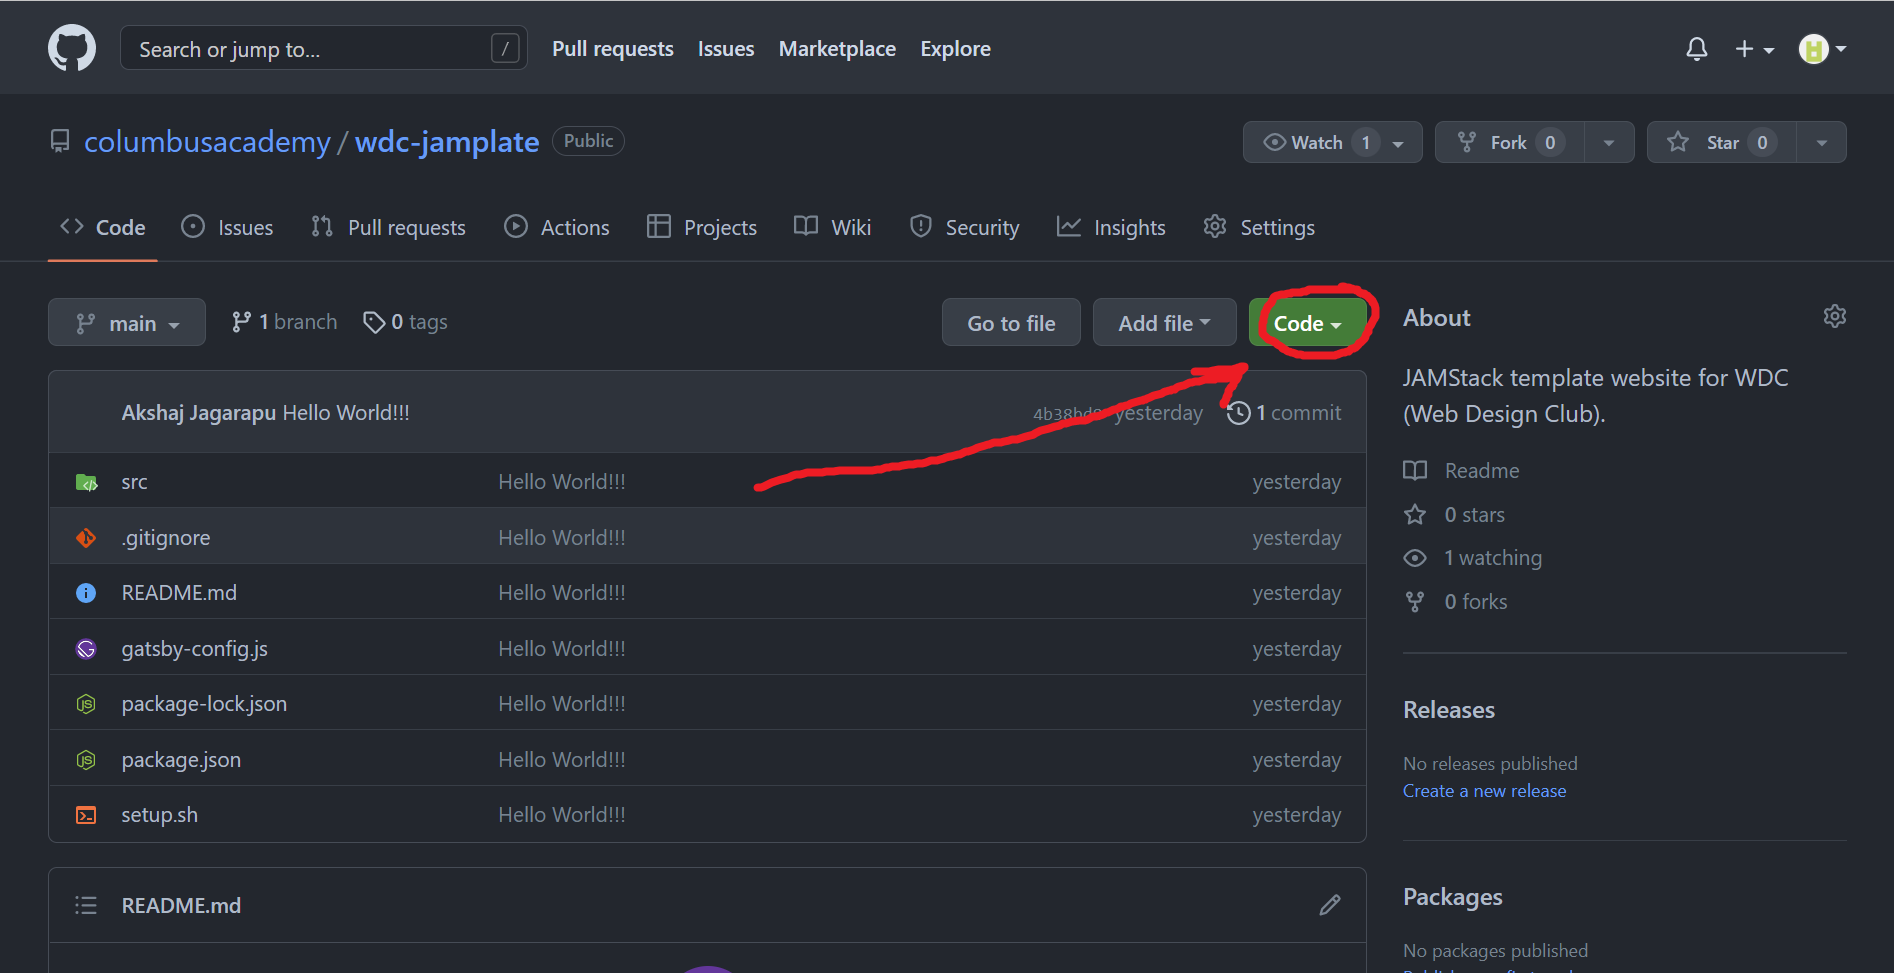
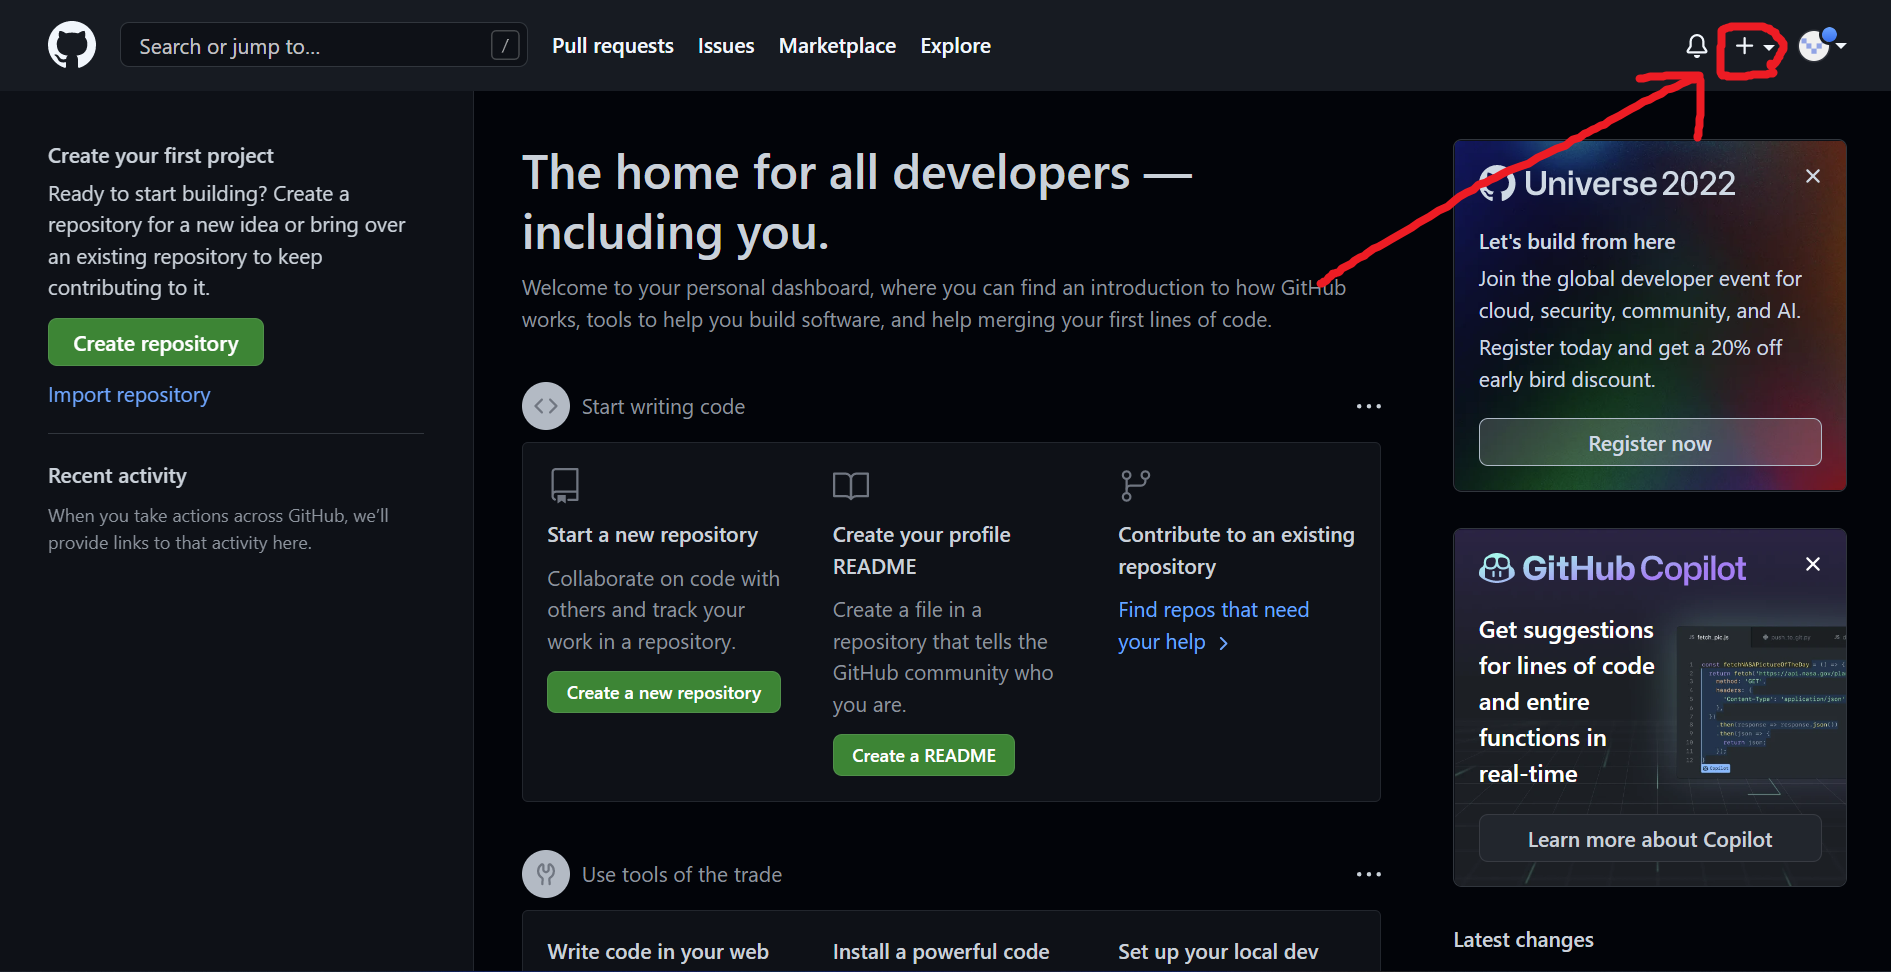
Started condensing README.md instructions.

diff --git a/README.md b/README.md
@@ -13,86 +13,88 @@
 
 <hr />
 
-## Table of Contents
+## 🗺 Table of Contents
 
-- ### [Quick start](#🚀-quick-start)
+1. ### [Quick start](#🚀-quick-start)
 
-  1. [**Set up your computer (first time only)**](#1-set-up-your-computer-first-time-only)
+   a. [**Set up your computer (first time only)**](#1-set-up-your-computer-first-time-only)
 
-     - [School laptop](#school-laptop)
-     - [Personal Computer](#personal-computer)
+   - [School laptop](#school-laptop)
+   - [Personal Computer](#personal-computer)
 
-  2. [**Start developing**](#2--start-developing)
+   b. [**Open the code**](#2--start-developing)
 
-  3. [**Open the code and start customizing**](#3-open-the-code-and-start-customizing)
+   c. [**Start customizing**](#3-open-the-code-and-start-customizing)
 
-  4. [**Learn more**](#4-learn-more)
+   d. [**Learn more**](#4-learn-more)
 
-- ### [To the Internet! (Gatsby Cloud)](#to-the-internet-gatsby-cloud)
+2. ### [To the Internet!](#to-the-internet-gatsby-cloud)
 
-  1. **Login to GitHub**
+   a. [**Login to GitHub**]()
 
-  2. **Initialize a repository**
+   b. [**Initialize a repository**]()
 
-  3. **Login to Gatsby Cloud**
+   c. [**Login to Gatsby Cloud**]()
 
-  4. **Launch your website**
+   d. [**Launch your website**]()
 
-- ### [Personal Computer Setup](#personal-computer-setup)
+3. ### [Personal Computer Setup](#personal-computer-setup)
 
-  - [**MacOS**](#macos)
+   - [**MacOS**](#macos)
 
-  - [**Windows**](#windows)
+   - [**Windows**](#windows)
 
-  - [**Linux**](#linux)
+   - [**Linux**](#linux)
 
-- ### [Remember: Ask questions!](#remember-ask-questions)
+4. ### [Remember: Ask questions!](#remember-ask-questions)
 
 <hr />
 
 ## 🚀 Quick start
 
-### 1. Set up your computer (first time only)
+### a. Set up your computer (first time only)
 
 - #### School Laptop
 
-  1. Go to https://github.com/columbusacademy/wdc-jamplate.
+  i. Log in to [GitHub](https://github.com/signup).
 
-  2. Press the green <code>Code</code> button.
+  ii. Press the <code>+</code> button on the top-right corner.
 
-  <img alt="GitHub Repo 1" src="mdimg/github-1.png" />
+  <img alt="GitHub 1" src="mdimg/github-1.png" />
 
-  3. Select <code>Download ZIP</code> and press <kbd>Enter</kbd>.
+  iii. Select <code>New repository</code>.
 
-  <img alt="GitHub Repo 2" src="mdimg/github-2.png" />
+  <img alt="GitHub 2" src="mdimg/github-2.png" />
 
-  4. Drag the downloaded file to your Desktop and double-click it.
+  iv. Click this textbox, type your project's name, and press <kbd>Enter</kbd>.
 
-  5. Open spotlight ( <kbd>⌘</kbd> + <kbd>Space</kbd> ), type <code>terminal</code>, and press <kbd>Enter</kbd>.
+  <img alt="GitHub Repo 1" src="mdimg/repo-1.png">
 
-  6. Click inside the newly opened window.
+  v. Press the copy button on the right side of the screen.
 
-  7. Type <code>cd Desktop/wdc-jamplate-main</code> and press <kbd>Enter</kbd>.
+  <img alt="GitHub Repo 1" src="mdimg/repo-2.png">
 
-  8. Type <code>chmod 755 setup.sh && ./setup.sh</code> and press <kbd>Enter</kbd>.
+  vi. Open Visual Studio Code.
 
-  9. Next: [Start Developing](#2-start-developing)
+  vii.
+
+  Next: [Start Developing](#2-start-developing)
 
 - #### Personal Computer
 
   [See below.](#personal-computer-setup)
 
-### 2. Start developing
+### b. Start developing
 
-1.  Open Visual Studio Code.
+1. Open your project folder in VS Code (already done in <code>Set up your computer</code>)
 
-2.  Type <kbd>⌘</kbd> + <kbd>O</kbd> (MacOS) or <kbd>Ctrl</kbd> + <kbd>O</kbd> (Windows)
+2. Type <kbd>⌘</kbd> + <kbd>O</kbd> (MacOS) or <kbd>Ctrl</kbd> + <kbd>O</kbd> (Windows)
 
-3.  Find the <code>wdc-jamplate-main</code> folder, click on it, and press <kbd>Enter</kbd>.
+3. Find the <code>wdc-jamplate-main</code> folder, click on it, and press <kbd>Enter</kbd>.
 
-4.  Choose <code>Yes, I trust the authors</code>.
+4. Choose <code>Yes, I trust the authors</code>.
 
-5.  Open the terminal and enter <code>npm t</code>.
+5. Open the terminal and enter <code>npm t</code>.
 
 ### 3. Open the code and start customizing!
 
